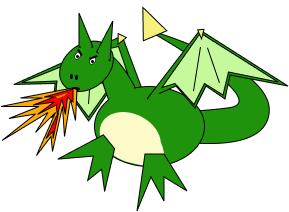
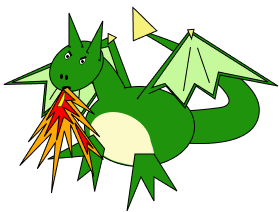
All images added, fire edited and java added

Changed region(s): [[0.0, 0.0283, 0.9749, 1.0], [0.8889, 0.4528, 0.9462, 0.6226], [0.7455, 0.6226, 0.8889, 0.6792]]

diff --git a/main.js b/main.js
@@ -1,3 +1,5 @@
+const originalImage = document.querySelector('#dave-normal')
+
 const feed = document.querySelector('#feedhim');
 const fedImage = document.querySelector('#davefed');
 
@@ -8,29 +10,32 @@ const fire = document.querySelector('#firehim');
 const fireImage = document.querySelector('#davefire');
 
 daveLoved = () => {
-  return loveImage
+  originalImage.style.opacity = "0"
+  return loveImage.style.opacity = "100%"
 };
 
 daveFired = () => {
-  return fireImage
+  originalImage.style.opacity = "0"
+  return fireImage.style.opacity = "100%"
 };
 
 daveFed = () => {
-  return fedImage
+  originalImage.style.opacity = "0"
+  return fedImage.style.opacity = "100%"
 };
 
-feed.addEventListener(('click'), (taregt) => {
+love.addEventListener(('click'), (taregt) => {
   daveLoved()
   console.log(loveImage);
 });
 
 
-love.addEventListener(('click'), (taregt) => {
+fire.addEventListener(('click'), (taregt) => {
   daveFired()
   console.log(fireImage);
 });
 
-fire.addEventListener(('click'), (taregt) => {
+feed.addEventListener(('click'), (taregt) => {
   daveFed()
   console.log(fedImage);
 });

diff --git a/index.html b/index.html
@@ -19,13 +19,12 @@
       <input type="image" id="dave-normal" src="images/Dave normal.png" alt="#"/>
       <img class="dave" id="davefed" src="images/Dave Fed.png" alt="#">
       <img class="dave" id="daveloved" src="images/Dave loved.png" alt="#">
-      <img class="dave" id="davefire" src="images/Dave fire.png.png" alt="#">
-      <img class="dave" id="davedead" src="images/Dave dead.png.png" alt="#">
+      <img class="dave" id="davefire" src="images/Dave fire.png" alt="#">
+      <img class="dave" id="davedead" src="images/Dave dead.png" alt="#">
     </section>
 
     <section class="buttons">
-      <input type="image"  id="dontfeedhim" src="images/Steak.png" alt="#"/>
-      <button id="feedhim">Feed him</button>
+      <input type="image"  id="feedhim" src="images/Steak.png" alt="#"/>
       <button id="lovehim">Love him</button>
       <button id="firehim">Smoke?</button>
     </section>
